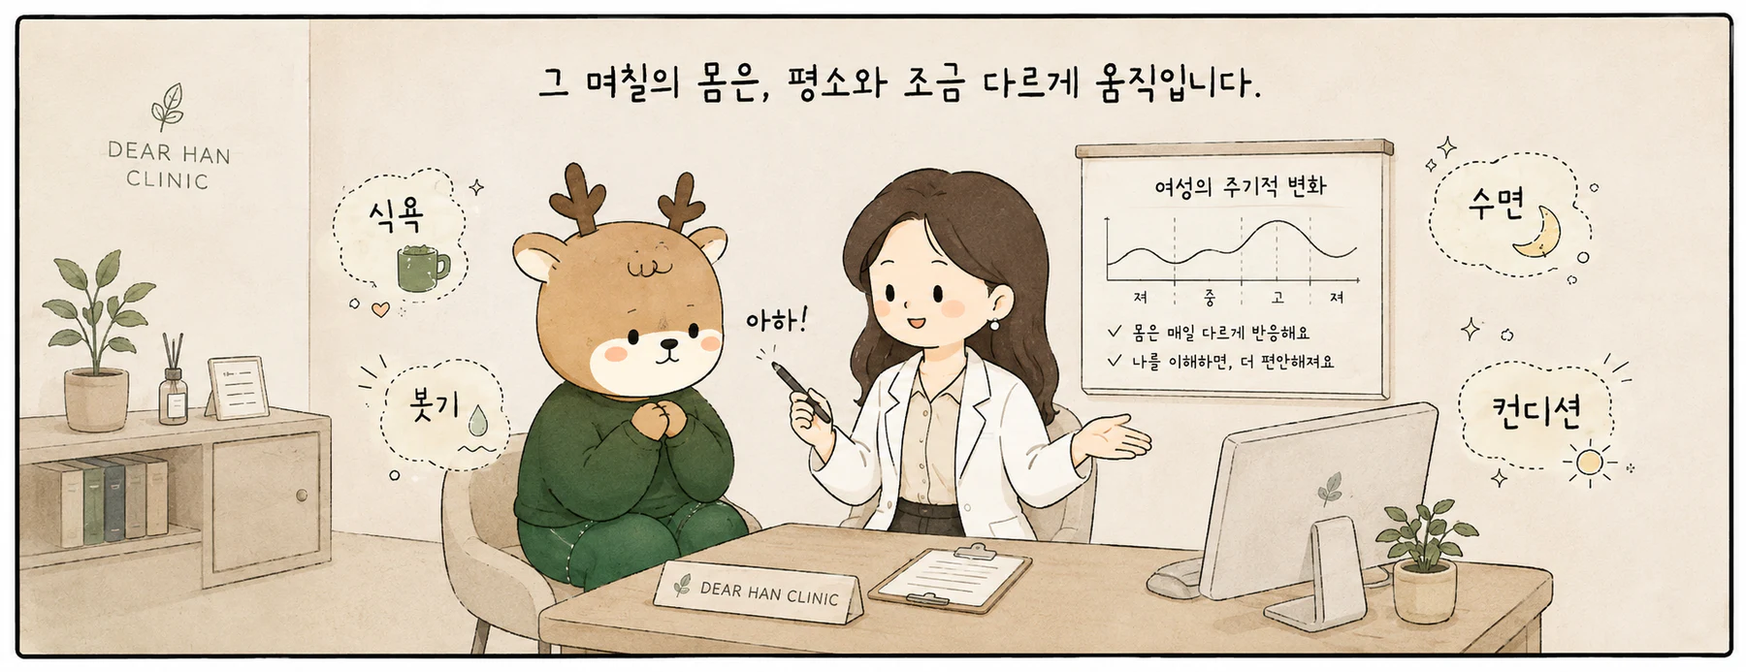
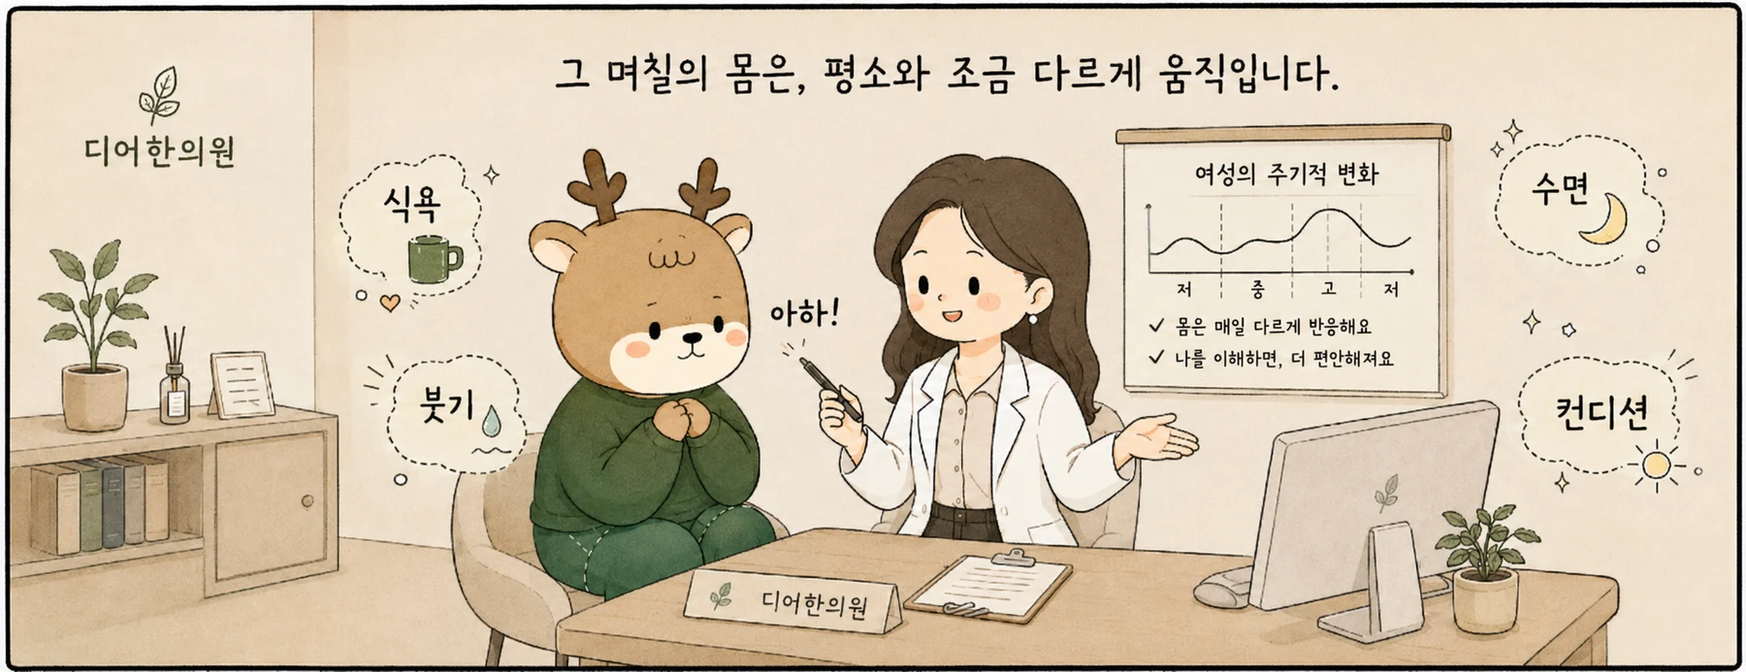
BE DEER 진료 용어와 사례 CTA 개편

diff --git a/be-deer-cases.html b/be-deer-cases.html
@@ -5,7 +5,7 @@
   <meta name="viewport" content="width=device-width, initial-scale=1.0">
   <meta name="theme-color" content="#173f37">
   <title>BE DEER 체성분 기록 | 디어한의원</title>
-  <meta name="description" content="디어한의원 BE DEER 다이어트 진료의 체성분 측정 기록 17건을 관리 시작과 경과 확인 시점으로 나누어 살펴봅니다.">
+  <meta name="description" content="디어한의원 BE DEER 다이어트 진료의 체성분 측정 기록 17건을 치료 시작과 경과 확인 시점으로 나누어 살펴봅니다.">
   <link rel="canonical" href="https://dearhani.com/be-deer-cases.html">
   <meta property="og:type" content="website">
   <meta property="og:title" content="BE DEER 체성분 기록 | 디어한의원">
@@ -15,7 +15,7 @@
   <link rel="icon" href="assets/images/dear-favicon.png" type="image/png">
   <link rel="stylesheet" as="style" crossorigin href="https://cdn.jsdelivr.net/gh/orioncactus/pretendard@v1.3.9/dist/web/static/pretendard.css">
   <link rel="stylesheet" href="css/style.css?v=20260728-3">
-  <link rel="stylesheet" href="css/be-deer.css?v=20260807-3">
+  <link rel="stylesheet" href="css/be-deer.css?v=20260811-5">
 </head>
 <body class="be-deer-page be-deer-cases-page">
   <nav class="nav" id="top">
@@ -37,131 +37,131 @@
         <p class="eyebrow">BE DEER BODY COMPOSITION ARCHIVE</p>
         <h1>체중 하나로는<br>보이지 않는 변화</h1>
       </div>
-      <p>관리의 시작점도, 변화의 속도도 사람마다 다릅니다. 한 번의 인상적인 결과보다 서로 다른 17개의 기록을 나란히 놓았습니다. 숫자를 과장하지 않고, 측정된 경과 그대로 살펴봅니다.</p>
+      <p>치료를 시작한 상태도, 변화의 속도도 사람마다 다릅니다. 한 번의 인상적인 결과보다 서로 다른 17개의 기록을 나란히 놓았습니다. 숫자를 과장하지 않고, 측정된 경과 그대로 살펴봅니다.</p>
     </header>
 
     <aside class="case-archive__notice" aria-label="사례 열람 안내">
       <strong>사례 열람 안내</strong>
-      <p>본 자료는 당사자의 동의를 받아 개인정보를 가린 뒤 게시했습니다. 체성분 측정값은 수분 상태, 식사, 활동량, 배변 상태와 측정 조건에 따라 달라질 수 있으며, 관리 결과는 개인의 상태·기간·생활습관·진료 순응도에 따라 다릅니다. 개별 사례를 모든 사람에게 동일하게 나타나는 결과로 해석할 수 없습니다.</p>
+      <p>본 자료는 당사자의 동의를 받아 개인정보를 가린 뒤 게시했습니다. 체성분 측정값은 수분 상태, 식사, 활동량, 배변 상태와 측정 조건에 따라 달라질 수 있으며, 진료 경과는 개인의 상태·치료 기간·생활습관·진료 순응도에 따라 다릅니다. 개별 사례를 모든 사람에게 동일하게 나타나는 결과로 해석할 수 없습니다.</p>
     </aside>
 
     <section class="case-archive__list" aria-label="BE DEER 체성분 기록 17건">
       <article class="case-record">
         <header><span>CASE 01</span><h2>30대 여성 사례</h2></header>
         <div class="case-record__pair">
-          <figure><figcaption>관리 시작</figcaption><a href="assets/images/be-deer/cases/case-01-before.webp" target="_blank" rel="noopener" aria-label="01번 사례 관리 시작 체성분 결과지 크게 보기"><img src="assets/images/be-deer/cases/case-01-before.webp" alt="개인정보를 가린 01번 사례 관리 시작 체성분 측정 결과지" loading="lazy" width="1200" height="1600"></a></figure>
+          <figure><figcaption>치료 시작</figcaption><a href="assets/images/be-deer/cases/case-01-before.webp" target="_blank" rel="noopener" aria-label="01번 사례 치료 시작 체성분 결과지 크게 보기"><img src="assets/images/be-deer/cases/case-01-before.webp" alt="개인정보를 가린 01번 사례 치료 시작 체성분 측정 결과지" loading="lazy" width="1200" height="1600"></a></figure>
           <figure><figcaption>경과 확인</figcaption><a href="assets/images/be-deer/cases/case-01-after.webp" target="_blank" rel="noopener" aria-label="01번 사례 경과 확인 체성분 결과지 크게 보기"><img src="assets/images/be-deer/cases/case-01-after.webp" alt="개인정보를 가린 01번 사례 경과 확인 체성분 측정 결과지" loading="lazy" width="1200" height="1600"></a></figure>
         </div>
       </article>
       <article class="case-record">
         <header><span>CASE 02</span><h2>20대 여성 사례</h2></header>
         <div class="case-record__pair">
-          <figure><figcaption>관리 시작</figcaption><a href="assets/images/be-deer/cases/case-02-before.webp" target="_blank" rel="noopener" aria-label="02번 사례 관리 시작 체성분 결과지 크게 보기"><img src="assets/images/be-deer/cases/case-02-before.webp" alt="개인정보를 가린 02번 사례 관리 시작 체성분 측정 결과지" loading="lazy" width="1200" height="1600"></a></figure>
+          <figure><figcaption>치료 시작</figcaption><a href="assets/images/be-deer/cases/case-02-before.webp" target="_blank" rel="noopener" aria-label="02번 사례 치료 시작 체성분 결과지 크게 보기"><img src="assets/images/be-deer/cases/case-02-before.webp" alt="개인정보를 가린 02번 사례 치료 시작 체성분 측정 결과지" loading="lazy" width="1200" height="1600"></a></figure>
           <figure><figcaption>경과 확인</figcaption><a href="assets/images/be-deer/cases/case-02-after.webp" target="_blank" rel="noopener" aria-label="02번 사례 경과 확인 체성분 결과지 크게 보기"><img src="assets/images/be-deer/cases/case-02-after.webp" alt="개인정보를 가린 02번 사례 경과 확인 체성분 측정 결과지" loading="lazy" width="1200" height="1600"></a></figure>
         </div>
       </article>
       <article class="case-record">
         <header><span>CASE 03</span><h2>30대 여성 사례</h2></header>
         <div class="case-record__pair">
-          <figure><figcaption>관리 시작</figcaption><a href="assets/images/be-deer/cases/case-03-before.webp" target="_blank" rel="noopener" aria-label="03번 사례 관리 시작 체성분 결과지 크게 보기"><img src="assets/images/be-deer/cases/case-03-before.webp" alt="개인정보를 가린 03번 사례 관리 시작 체성분 측정 결과지" loading="lazy" width="1200" height="1600"></a></figure>
+          <figure><figcaption>치료 시작</figcaption><a href="assets/images/be-deer/cases/case-03-before.webp" target="_blank" rel="noopener" aria-label="03번 사례 치료 시작 체성분 결과지 크게 보기"><img src="assets/images/be-deer/cases/case-03-before.webp" alt="개인정보를 가린 03번 사례 치료 시작 체성분 측정 결과지" loading="lazy" width="1200" height="1600"></a></figure>
           <figure><figcaption>경과 확인</figcaption><a href="assets/images/be-deer/cases/case-03-after.webp" target="_blank" rel="noopener" aria-label="03번 사례 경과 확인 체성분 결과지 크게 보기"><img src="assets/images/be-deer/cases/case-03-after.webp" alt="개인정보를 가린 03번 사례 경과 확인 체성분 측정 결과지" loading="lazy" width="1200" height="1600"></a></figure>
         </div>
       </article>
       <article class="case-record">
         <header><span>CASE 04</span><h2>20대 여성 사례</h2></header>
         <div class="case-record__pair">
-          <figure><figcaption>관리 시작</figcaption><a href="assets/images/be-deer/cases/case-04-before.webp" target="_blank" rel="noopener" aria-label="04번 사례 관리 시작 체성분 결과지 크게 보기"><img src="assets/images/be-deer/cases/case-04-before.webp" alt="개인정보를 가린 04번 사례 관리 시작 체성분 측정 결과지" loading="lazy" width="1200" height="1600"></a></figure>
+          <figure><figcaption>치료 시작</figcaption><a href="assets/images/be-deer/cases/case-04-before.webp" target="_blank" rel="noopener" aria-label="04번 사례 치료 시작 체성분 결과지 크게 보기"><img src="assets/images/be-deer/cases/case-04-before.webp" alt="개인정보를 가린 04번 사례 치료 시작 체성분 측정 결과지" loading="lazy" width="1200" height="1600"></a></figure>
           <figure><figcaption>경과 확인</figcaption><a href="assets/images/be-deer/cases/case-04-after.webp" target="_blank" rel="noopener" aria-label="04번 사례 경과 확인 체성분 결과지 크게 보기"><img src="assets/images/be-deer/cases/case-04-after.webp" alt="개인정보를 가린 04번 사례 경과 확인 체성분 측정 결과지" loading="lazy" width="1200" height="1600"></a></figure>
         </div>
       </article>
       <article class="case-record">
         <header><span>CASE 05</span><h2>30대 여성 사례</h2></header>
         <div class="case-record__pair">
-          <figure><figcaption>관리 시작</figcaption><a href="assets/images/be-deer/cases/case-05-before.webp" target="_blank" rel="noopener" aria-label="05번 사례 관리 시작 체성분 결과지 크게 보기"><img src="assets/images/be-deer/cases/case-05-before.webp" alt="개인정보를 가린 05번 사례 관리 시작 체성분 측정 결과지" loading="lazy" width="1200" height="1600"></a></figure>
+          <figure><figcaption>치료 시작</figcaption><a href="assets/images/be-deer/cases/case-05-before.webp" target="_blank" rel="noopener" aria-label="05번 사례 치료 시작 체성분 결과지 크게 보기"><img src="assets/images/be-deer/cases/case-05-before.webp" alt="개인정보를 가린 05번 사례 치료 시작 체성분 측정 결과지" loading="lazy" width="1200" height="1600"></a></figure>
           <figure><figcaption>경과 확인</figcaption><a href="assets/images/be-deer/cases/case-05-after.webp" target="_blank" rel="noopener" aria-label="05번 사례 경과 확인 체성분 결과지 크게 보기"><img src="assets/images/be-deer/cases/case-05-after.webp" alt="개인정보를 가린 05번 사례 경과 확인 체성분 측정 결과지" loading="lazy" width="1200" height="1600"></a></figure>
         </div>
       </article>
       <article class="case-record">
         <header><span>CASE 06</span><h2>20대 여성 사례</h2></header>
         <div class="case-record__pair">
-          <figure><figcaption>관리 시작</figcaption><a href="assets/images/be-deer/cases/case-06-before.webp" target="_blank" rel="noopener" aria-label="06번 사례 관리 시작 체성분 결과지 크게 보기"><img src="assets/images/be-deer/cases/case-06-before.webp" alt="개인정보를 가린 06번 사례 관리 시작 체성분 측정 결과지" loading="lazy" width="1200" height="1600"></a></figure>
+          <figure><figcaption>치료 시작</figcaption><a href="assets/images/be-deer/cases/case-06-before.webp" target="_blank" rel="noopener" aria-label="06번 사례 치료 시작 체성분 결과지 크게 보기"><img src="assets/images/be-deer/cases/case-06-before.webp" alt="개인정보를 가린 06번 사례 치료 시작 체성분 측정 결과지" loading="lazy" width="1200" height="1600"></a></figure>
           <figure><figcaption>경과 확인</figcaption><a href="assets/images/be-deer/cases/case-06-after.webp" target="_blank" rel="noopener" aria-label="06번 사례 경과 확인 체성분 결과지 크게 보기"><img src="assets/images/be-deer/cases/case-06-after.webp" alt="개인정보를 가린 06번 사례 경과 확인 체성분 측정 결과지" loading="lazy" width="1200" height="1600"></a></figure>
         </div>
       </article>
       <article class="case-record">
         <header><span>CASE 07</span><h2>40대 여성 사례</h2></header>
         <div class="case-record__pair">
-          <figure><figcaption>관리 시작</figcaption><a href="assets/images/be-deer/cases/case-07-before.webp" target="_blank" rel="noopener" aria-label="07번 사례 관리 시작 체성분 결과지 크게 보기"><img src="assets/images/be-deer/cases/case-07-before.webp" alt="개인정보를 가린 07번 사례 관리 시작 체성분 측정 결과지" loading="lazy" width="1200" height="1600"></a></figure>
+          <figure><figcaption>치료 시작</figcaption><a href="assets/images/be-deer/cases/case-07-before.webp" target="_blank" rel="noopener" aria-label="07번 사례 치료 시작 체성분 결과지 크게 보기"><img src="assets/images/be-deer/cases/case-07-before.webp" alt="개인정보를 가린 07번 사례 치료 시작 체성분 측정 결과지" loading="lazy" width="1200" height="1600"></a></figure>
           <figure><figcaption>경과 확인</figcaption><a href="assets/images/be-deer/cases/case-07-after.webp" target="_blank" rel="noopener" aria-label="07번 사례 경과 확인 체성분 결과지 크게 보기"><img src="assets/images/be-deer/cases/case-07-after.webp" alt="개인정보를 가린 07번 사례 경과 확인 체성분 측정 결과지" loading="lazy" width="1200" height="1600"></a></figure>
         </div>
       </article>
       <article class="case-record">
         <header><span>CASE 08</span><h2>30대 여성 사례</h2></header>
         <div class="case-record__pair">
-          <figure><figcaption>관리 시작</figcaption><a href="assets/images/be-deer/cases/case-08-before.webp" target="_blank" rel="noopener" aria-label="08번 사례 관리 시작 체성분 결과지 크게 보기"><img src="assets/images/be-deer/cases/case-08-before.webp" alt="개인정보를 가린 08번 사례 관리 시작 체성분 측정 결과지" loading="lazy" width="1200" height="1600"></a></figure>
+          <figure><figcaption>치료 시작</figcaption><a href="assets/images/be-deer/cases/case-08-before.webp" target="_blank" rel="noopener" aria-label="08번 사례 치료 시작 체성분 결과지 크게 보기"><img src="assets/images/be-deer/cases/case-08-before.webp" alt="개인정보를 가린 08번 사례 치료 시작 체성분 측정 결과지" loading="lazy" width="1200" height="1600"></a></figure>
           <figure><figcaption>경과 확인</figcaption><a href="assets/images/be-deer/cases/case-08-after.webp" target="_blank" rel="noopener" aria-label="08번 사례 경과 확인 체성분 결과지 크게 보기"><img src="assets/images/be-deer/cases/case-08-after.webp" alt="개인정보를 가린 08번 사례 경과 확인 체성분 측정 결과지" loading="lazy" width="1200" height="1600"></a></figure>
         </div>
       </article>
       <article class="case-record">
         <header><span>CASE 09</span><h2>30대 남성 사례</h2></header>
         <div class="case-record__pair">
-          <figure><figcaption>관리 시작</figcaption><a href="assets/images/be-deer/cases/case-09-before.webp" target="_blank" rel="noopener" aria-label="09번 사례 관리 시작 체성분 결과지 크게 보기"><img src="assets/images/be-deer/cases/case-09-before.webp" alt="개인정보를 가린 09번 사례 관리 시작 체성분 측정 결과지" loading="lazy" width="1200" height="1600"></a></figure>
+          <figure><figcaption>치료 시작</figcaption><a href="assets/images/be-deer/cases/case-09-before.webp" target="_blank" rel="noopener" aria-label="09번 사례 치료 시작 체성분 결과지 크게 보기"><img src="assets/images/be-deer/cases/case-09-before.webp" alt="개인정보를 가린 09번 사례 치료 시작 체성분 측정 결과지" loading="lazy" width="1200" height="1600"></a></figure>
           <figure><figcaption>경과 확인</figcaption><a href="assets/images/be-deer/cases/case-09-after.webp" target="_blank" rel="noopener" aria-label="09번 사례 경과 확인 체성분 결과지 크게 보기"><img src="assets/images/be-deer/cases/case-09-after.webp" alt="개인정보를 가린 09번 사례 경과 확인 체성분 측정 결과지" loading="lazy" width="1200" height="1600"></a></figure>
         </div>
       </article>
       <article class="case-record">
         <header><span>CASE 10</span><h2>50대 여성 사례</h2></header>
         <div class="case-record__pair">
-          <figure><figcaption>관리 시작</figcaption><a href="assets/images/be-deer/cases/case-10-before.webp" target="_blank" rel="noopener" aria-label="10번 사례 관리 시작 체성분 결과지 크게 보기"><img src="assets/images/be-deer/cases/case-10-before.webp" alt="개인정보를 가린 10번 사례 관리 시작 체성분 측정 결과지" loading="lazy" width="1200" height="1600"></a></figure>
+          <figure><figcaption>치료 시작</figcaption><a href="assets/images/be-deer/cases/case-10-before.webp" target="_blank" rel="noopener" aria-label="10번 사례 치료 시작 체성분 결과지 크게 보기"><img src="assets/images/be-deer/cases/case-10-before.webp" alt="개인정보를 가린 10번 사례 치료 시작 체성분 측정 결과지" loading="lazy" width="1200" height="1600"></a></figure>
           <figure><figcaption>경과 확인</figcaption><a href="assets/images/be-deer/cases/case-10-after.webp" target="_blank" rel="noopener" aria-label="10번 사례 경과 확인 체성분 결과지 크게 보기"><img src="assets/images/be-deer/cases/case-10-after.webp" alt="개인정보를 가린 10번 사례 경과 확인 체성분 측정 결과지" loading="lazy" width="1200" height="1600"></a></figure>
         </div>
       </article>
       <article class="case-record">
         <header><span>CASE 11</span><h2>40대 여성 사례</h2></header>
         <div class="case-record__pair">
-          <figure><figcaption>관리 시작</figcaption><a href="assets/images/be-deer/cases/case-11-before.webp" target="_blank" rel="noopener" aria-label="11번 사례 관리 시작 체성분 결과지 크게 보기"><img src="assets/images/be-deer/cases/case-11-before.webp" alt="개인정보를 가린 11번 사례 관리 시작 체성분 측정 결과지" loading="lazy" width="1200" height="1600"></a></figure>
+          <figure><figcaption>치료 시작</figcaption><a href="assets/images/be-deer/cases/case-11-before.webp" target="_blank" rel="noopener" aria-label="11번 사례 치료 시작 체성분 결과지 크게 보기"><img src="assets/images/be-deer/cases/case-11-before.webp" alt="개인정보를 가린 11번 사례 치료 시작 체성분 측정 결과지" loading="lazy" width="1200" height="1600"></a></figure>
           <figure><figcaption>경과 확인</figcaption><a href="assets/images/be-deer/cases/case-11-after.webp" target="_blank" rel="noopener" aria-label="11번 사례 경과 확인 체성분 결과지 크게 보기"><img src="assets/images/be-deer/cases/case-11-after.webp" alt="개인정보를 가린 11번 사례 경과 확인 체성분 측정 결과지" loading="lazy" width="1200" height="1600"></a></figure>
         </div>
       </article>
       <article class="case-record">
         <header><span>CASE 12</span><h2>40대 여성 사례</h2></header>
         <div class="case-record__pair">
-          <figure><figcaption>관리 시작</figcaption><a href="assets/images/be-deer/cases/case-12-before.webp" target="_blank" rel="noopener" aria-label="12번 사례 관리 시작 체성분 결과지 크게 보기"><img src="assets/images/be-deer/cases/case-12-before.webp" alt="개인정보를 가린 12번 사례 관리 시작 체성분 측정 결과지" loading="lazy" width="1200" height="1600"></a></figure>
+          <figure><figcaption>치료 시작</figcaption><a href="assets/images/be-deer/cases/case-12-before.webp" target="_blank" rel="noopener" aria-label="12번 사례 치료 시작 체성분 결과지 크게 보기"><img src="assets/images/be-deer/cases/case-12-before.webp" alt="개인정보를 가린 12번 사례 치료 시작 체성분 측정 결과지" loading="lazy" width="1200" height="1600"></a></figure>
           <figure><figcaption>경과 확인</figcaption><a href="assets/images/be-deer/cases/case-12-after.webp" target="_blank" rel="noopener" aria-label="12번 사례 경과 확인 체성분 결과지 크게 보기"><img src="assets/images/be-deer/cases/case-12-after.webp" alt="개인정보를 가린 12번 사례 경과 확인 체성분 측정 결과지" loading="lazy" width="1200" height="1600"></a></figure>
         </div>
       </article>
       <article class="case-record">
         <header><span>CASE 13</span><h2>20대 여성 사례</h2></header>
         <div class="case-record__pair">
-          <figure><figcaption>관리 시작</figcaption><a href="assets/images/be-deer/cases/case-13-before.webp" target="_blank" rel="noopener" aria-label="13번 사례 관리 시작 체성분 결과지 크게 보기"><img src="assets/images/be-deer/cases/case-13-before.webp" alt="개인정보를 가린 13번 사례 관리 시작 체성분 측정 결과지" loading="lazy" width="1200" height="1600"></a></figure>
+          <figure><figcaption>치료 시작</figcaption><a href="assets/images/be-deer/cases/case-13-before.webp" target="_blank" rel="noopener" aria-label="13번 사례 치료 시작 체성분 결과지 크게 보기"><img src="assets/images/be-deer/cases/case-13-before.webp" alt="개인정보를 가린 13번 사례 치료 시작 체성분 측정 결과지" loading="lazy" width="1200" height="1600"></a></figure>
           <figure><figcaption>경과 확인</figcaption><a href="assets/images/be-deer/cases/case-13-after.webp" target="_blank" rel="noopener" aria-label="13번 사례 경과 확인 체성분 결과지 크게 보기"><img src="assets/images/be-deer/cases/case-13-after.webp" alt="개인정보를 가린 13번 사례 경과 확인 체성분 측정 결과지" loading="lazy" width="1200" height="1600"></a></figure>
         </div>
       </article>
       <article class="case-record">
         <header><span>CASE 14</span><h2>20대 여성 사례</h2></header>
         <div class="case-record__pair">
-          <figure><figcaption>관리 시작</figcaption><a href="assets/images/be-deer/cases/case-14-before.webp" target="_blank" rel="noopener" aria-label="14번 사례 관리 시작 체성분 결과지 크게 보기"><img src="assets/images/be-deer/cases/case-14-before.webp" alt="개인정보를 가린 14번 사례 관리 시작 체성분 측정 결과지" loading="lazy" width="1200" height="1600"></a></figure>
+          <figure><figcaption>치료 시작</figcaption><a href="assets/images/be-deer/cases/case-14-before.webp" target="_blank" rel="noopener" aria-label="14번 사례 치료 시작 체성분 결과지 크게 보기"><img src="assets/images/be-deer/cases/case-14-before.webp" alt="개인정보를 가린 14번 사례 치료 시작 체성분 측정 결과지" loading="lazy" width="1200" height="1600"></a></figure>
           <figure><figcaption>경과 확인</figcaption><a href="assets/images/be-deer/cases/case-14-after.webp" target="_blank" rel="noopener" aria-label="14번 사례 경과 확인 체성분 결과지 크게 보기"><img src="assets/images/be-deer/cases/case-14-after.webp" alt="개인정보를 가린 14번 사례 경과 확인 체성분 측정 결과지" loading="lazy" width="1200" height="1600"></a></figure>
         </div>
       </article>
       <article class="case-record">
         <header><span>CASE 15</span><h2>30대 여성 사례</h2></header>
         <div class="case-record__pair">
-          <figure><figcaption>관리 시작</figcaption><a href="assets/images/be-deer/cases/case-15-before.webp" target="_blank" rel="noopener" aria-label="15번 사례 관리 시작 체성분 결과지 크게 보기"><img src="assets/images/be-deer/cases/case-15-before.webp" alt="개인정보를 가린 15번 사례 관리 시작 체성분 측정 결과지" loading="lazy" width="1200" height="1600"></a></figure>
+          <figure><figcaption>치료 시작</figcaption><a href="assets/images/be-deer/cases/case-15-before.webp" target="_blank" rel="noopener" aria-label="15번 사례 치료 시작 체성분 결과지 크게 보기"><img src="assets/images/be-deer/cases/case-15-before.webp" alt="개인정보를 가린 15번 사례 치료 시작 체성분 측정 결과지" loading="lazy" width="1200" height="1600"></a></figure>
           <figure><figcaption>경과 확인</figcaption><a href="assets/images/be-deer/cases/case-15-after.webp" target="_blank" rel="noopener" aria-label="15번 사례 경과 확인 체성분 결과지 크게 보기"><img src="assets/images/be-deer/cases/case-15-after.webp" alt="개인정보를 가린 15번 사례 경과 확인 체성분 측정 결과지" loading="lazy" width="1200" height="1600"></a></figure>
         </div>
       </article>
       <article class="case-record">
         <header><span>CASE 16</span><h2>40대 여성 사례</h2></header>
         <div class="case-record__pair">
-          <figure><figcaption>관리 시작</figcaption><a href="assets/images/be-deer/cases/case-16-before.webp" target="_blank" rel="noopener" aria-label="16번 사례 관리 시작 체성분 결과지 크게 보기"><img src="assets/images/be-deer/cases/case-16-before.webp" alt="개인정보를 가린 16번 사례 관리 시작 체성분 측정 결과지" loading="lazy" width="1200" height="1600"></a></figure>
+          <figure><figcaption>치료 시작</figcaption><a href="assets/images/be-deer/cases/case-16-before.webp" target="_blank" rel="noopener" aria-label="16번 사례 치료 시작 체성분 결과지 크게 보기"><img src="assets/images/be-deer/cases/case-16-before.webp" alt="개인정보를 가린 16번 사례 치료 시작 체성분 측정 결과지" loading="lazy" width="1200" height="1600"></a></figure>
           <figure><figcaption>경과 확인</figcaption><a href="assets/images/be-deer/cases/case-16-after.webp" target="_blank" rel="noopener" aria-label="16번 사례 경과 확인 체성분 결과지 크게 보기"><img src="assets/images/be-deer/cases/case-16-after.webp" alt="개인정보를 가린 16번 사례 경과 확인 체성분 측정 결과지" loading="lazy" width="1200" height="1600"></a></figure>
         </div>
       </article>
       <article class="case-record">
         <header><span>CASE 17</span><h2>40대 여성 사례</h2></header>
         <div class="case-record__pair">
-          <figure><figcaption>관리 시작</figcaption><a href="assets/images/be-deer/cases/case-17-before.webp" target="_blank" rel="noopener" aria-label="17번 사례 관리 시작 체성분 결과지 크게 보기"><img src="assets/images/be-deer/cases/case-17-before.webp" alt="개인정보를 가린 17번 사례 관리 시작 체성분 측정 결과지" loading="lazy" width="1200" height="1600"></a></figure>
+          <figure><figcaption>치료 시작</figcaption><a href="assets/images/be-deer/cases/case-17-before.webp" target="_blank" rel="noopener" aria-label="17번 사례 치료 시작 체성분 결과지 크게 보기"><img src="assets/images/be-deer/cases/case-17-before.webp" alt="개인정보를 가린 17번 사례 치료 시작 체성분 측정 결과지" loading="lazy" width="1200" height="1600"></a></figure>
           <figure><figcaption>경과 확인</figcaption><a href="assets/images/be-deer/cases/case-17-after.webp" target="_blank" rel="noopener" aria-label="17번 사례 경과 확인 체성분 결과지 크게 보기"><img src="assets/images/be-deer/cases/case-17-after.webp" alt="개인정보를 가린 17번 사례 경과 확인 체성분 측정 결과지" loading="lazy" width="1200" height="1600"></a></figure>
         </div>
       </article>

diff --git a/be-deer.html b/be-deer.html
@@ -27,7 +27,7 @@
   <link rel="icon" href="assets/images/dear-favicon.png" type="image/png">
   <link rel="stylesheet" as="style" crossorigin href="https://cdn.jsdelivr.net/gh/orioncactus/pretendard@v1.3.9/dist/web/static/pretendard.css">
   <link rel="stylesheet" href="css/style.css?v=20260728-3">
-  <link rel="stylesheet" href="css/be-deer.css?v=20260807-4">
+  <link rel="stylesheet" href="css/be-deer.css?v=20260811-5">
 </head>
 <body class="be-deer-page">
   <nav class="nav" id="top">
@@ -48,7 +48,7 @@
       <div class="hero__copy reveal">
         <p class="eyebrow">DEAR DIET PROGRAM</p>
         <h1>체중만 보지 않습니다.<br><span class="hero__highlight">지금의 몸과 생활</span>을 함께 봅니다.</h1>
-        <p class="hero__body">식욕과 수면, 소화와 부종, 배변과 생활 리듬까지.<br>현재 상태를 함께 살펴 체중관리의 방향을 정합니다.</p>
+        <p class="hero__body">식욕과 수면, 소화와 부종, 배변과 생활 리듬까지.<br>현재 상태를 함께 살펴 비만 진료의 방향을 정합니다.</p>
         <a class="text-link" href="#story">BE DEER 진료 알아보기 <span>↓</span></a>
       </div>
       <div class="hero__visual" aria-hidden="true">
@@ -77,7 +77,7 @@
     <section class="observe">
       <header class="section-heading reveal">
         <p class="eyebrow">WHAT WE OBSERVE</p>
-        <h2>체중관리의 방향을 정할 때<br>함께 살펴보는 여섯 가지</h2>
+        <h2>비만 진료의 방향을 정할 때<br>함께 살펴보는 여섯 가지</h2>
       </header>
       <div class="observe__grid">
         <article class="observe-card reveal" tabindex="0">
@@ -119,7 +119,7 @@
       </div>
       <aside class="observe__summary reveal" aria-label="BE DEER 진료 판단 원칙">
         <span>BE DEER ASSESSMENT</span>
-        <p>BE DEER는 문진과 진찰을 기본으로 합니다. 체중·체성분과 자율신경기능 등 필요한 측정자료를 함께 참고해 체중관리의 방향을 정합니다.</p>
+        <p>BE DEER는 문진과 진찰을 기본으로 합니다. 체중·체성분과 자율신경기능 등 필요한 측정자료를 함께 참고해 비만 진료의 방향을 정합니다.</p>
       </aside>
     </section>
 
@@ -161,7 +161,7 @@
           <li class="process__step" data-flow-step>
             <span class="process__number">01</span>
             <div class="process__stage"><span>INITIAL</span><h3>초기 문진</h3></div>
-            <div class="process__description"><p>현재의 고민과 체중 변화,<br>이전 체중관리 경험을 확인합니다.</p><p>식욕·수면·소화·배변·부종과<br>생활 패턴까지 함께 문진합니다.</p></div>
+            <div class="process__description"><p>현재의 고민과 체중 변화,<br>이전 비만 치료 경험을 확인합니다.</p><p>식욕·수면·소화·배변·부종과<br>생활 패턴까지 함께 문진합니다.</p></div>
           </li>
           <li class="process__step" data-flow-step>
             <span class="process__number">02</span>
@@ -171,7 +171,7 @@
           <li class="process__step" data-flow-step>
             <span class="process__number">03</span>
             <div class="process__stage"><span>CARE PLAN</span><h3>진료 계획</h3></div>
-            <div class="process__description"><p>확인한 내용을 바탕으로 현재 상태에 맞는 진료 방향을 정합니다.</p><p>한약을 포함한 치료와 생활 관리의 범위는 진찰 후 개별적으로 결정합니다.</p></div>
+            <div class="process__description"><p>확인한 내용을 바탕으로 현재 상태에 맞는 진료 방향을 정합니다.</p><p>한약을 포함한 치료 계획은 진찰 후 개별적으로 결정합니다.</p></div>
           </li>
           <li class="process__step" data-flow-step>
             <span class="process__number">04</span>
@@ -194,10 +194,10 @@
           <article class="result-panel">
             <div class="result-panel__heading">
               <span>START</span>
-              <h3>관리를 시작할 때</h3>
+              <h3>치료 시작 시점</h3>
             </div>
-            <a class="result-panel__sheet" href="assets/images/be-deer/body-composition-start-redacted.jpg" target="_blank" rel="noopener" aria-label="관리 시작 시 체성분 결과지 크게 보기">
-              <img src="assets/images/be-deer/body-composition-start-redacted.jpg" alt="개인정보를 가린 관리 시작 시 체성분 검사 결과지" loading="lazy">
+            <a class="result-panel__sheet" href="assets/images/be-deer/body-composition-start-redacted.jpg" target="_blank" rel="noopener" aria-label="치료 시작 시점의 체성분 결과지 크게 보기">
+              <img src="assets/images/be-deer/body-composition-start-redacted.jpg" alt="개인정보를 가린 치료 시작 시점의 체성분 검사 결과지" loading="lazy">
               <span>결과지 크게 보기</span>
             </a>
             <dl class="result-panel__metrics">
@@ -230,19 +230,15 @@
           </article>
         </div>
 
-        <p class="result-story__summary"><strong>본 사례는<br>체중·체지방 및 복부지방 지표가 높은 상태에서 관리를 시작해,<br>체지방과 내장지방 지표가 함께 감소한 사례입니다.</strong></p>
+        <p class="result-story__summary"><strong>본 사례는<br>체중·체지방 및 복부지방 지표가 높은 상태에서 치료를 시작해,<br>체지방과 내장지방 지표가 함께 감소한 사례입니다.</strong></p>
       </section>
 
       <aside class="case-archive-bridge reveal" aria-labelledby="case-archive-bridge-title">
         <div class="case-archive-bridge__copy">
           <p class="eyebrow">BODY COMPOSITION ARCHIVE</p>
-          <h2 id="case-archive-bridge-title">다이어트 진료 사례<br>더 보기</h2>
+          <h2 id="case-archive-bridge-title">서로 다른 치료 시작과<br>경과를 기록했습니다</h2>
           <p>한 사람의 큰 변화만이 아니라,<br>서로 다른 시작과 경과를 체성분 기록으로 모았습니다.</p>
-          <a href="be-deer-cases.html">17개의 체성분 기록 살펴보기 <span aria-hidden="true">→</span></a>
-        </div>
-        <div class="case-archive-bridge__index" aria-hidden="true">
-          <strong>17</strong>
-          <span>CASES</span>
+          <a href="be-deer-cases.html">다이어트 진료 사례 더 보기 <span aria-hidden="true">→</span></a>
         </div>
       </aside>
 
@@ -302,7 +298,7 @@
 
         <section class="self-check reveal" aria-labelledby="self-check-title">
           <header class="self-check__intro">
-            <p class="eyebrow">후기로 확인되는 BE DEER 체중관리</p>
+            <p class="eyebrow">후기로 확인되는 BE DEER 다이어트 진료</p>
             <h3 id="self-check-title">이런 경우라면,<br>BE DEER 상담을 고려해보세요.</h3>
             <p>실제 후기에서 확인된 변화는 특별한 몇 사람의 이야기가 아니라,<br>식사·수면·생활 리듬이 흔들리는 일상 속에서 시작되는 경우가 많습니다.</p>
           </header>
@@ -340,12 +336,12 @@
               <article class="self-check-card">
                 <div class="self-check-card__top"><span>05</span></div>
                 <h4>운동은 바쁘고, 식단은 지쳐서 못 하겠어요.</h4>
-                <p>총에너지 소비에는 운동뿐 아니라 <strong class="self-check-card__key">이동과 업무, 가사 같은 비운동성 활동도 관여합니다.</strong> 수면과 회복 상태, 일상 활동량, 식사 환경을 확인해 현재 생활에서 실제로 확보할 수 있는 관리 강도와 우선순위를 정합니다.</p>
+                <p>총에너지 소비에는 운동뿐 아니라 <strong class="self-check-card__key">이동과 업무, 가사 같은 비운동성 활동도 관여합니다.</strong> 수면과 회복 상태, 일상 활동량, 식사 환경을 확인해 현재 상태에 필요한 진료 범위와 우선순위를 정합니다.</p>
               </article>
               <article class="self-check-card">
                 <div class="self-check-card__top"><span>06</span></div>
                 <h4>이번에는 체중뿐 아니라, 앞으로의 건강까지 생각하고 싶어요.</h4>
-                <p><strong class="self-check-card__key">체중이나 BMI만으로 대사질환 위험을 충분히 평가하기는 어렵습니다.</strong> 복부지방과 체성분, 혈압, 혈당·지질 관련 검사 결과, 가족력과 복용 약물을 종합해 감량 목표와 건강관리의 우선순위를 함께 설정합니다.</p>
+                <p><strong class="self-check-card__key">체중이나 BMI만으로 대사질환 위험을 충분히 평가하기는 어렵습니다.</strong> 복부지방과 체성분, 혈압, 혈당·지질 관련 검사 결과, 가족력과 복용 약물을 종합해 감량 목표와 대사 위험 평가의 우선순위를 함께 설정합니다.</p>
               </article>
             </div>
             <figure class="self-check__photo">
@@ -371,7 +367,7 @@
         <a class="final-cta__primary" href="https://m.booking.naver.com/booking/13/bizes/729883" target="_blank" rel="noopener">지금 진료 예약하기 <span aria-hidden="true">→</span></a>
         <a class="final-cta__secondary" href="tel:02-3486-1777">전화로 상담하기</a>
       </div>
-      <p class="final-cta__note reveal">BE DEER 체중관리 · 김민지 대표원장 진료</p>
+      <p class="final-cta__note reveal">BE DEER 다이어트 진료 · 김민지 대표원장 진료</p>
     </section>
   </main>
 

diff --git a/columns/gyodae-diet-premenstrual-appetite.html b/columns/gyodae-diet-premenstrual-appetite.html
@@ -39,11 +39,6 @@
     .toon-copy--note{padding:.18em .5em;background:#f8f4ec;box-shadow:0 0 12px 10px #f8f4ec;font-size:clamp(8px,1.45vw,21px)}
     .toon-copy--bubble{padding:.25em .65em;background:#f8f4ec;box-shadow:0 0 14px 12px #f8f4ec;font-size:clamp(8px,1.55vw,22px)}
     .toon-05 .toon-note-weight{top:25%;left:63%}.toon-05 .toon-note-huh{top:55%;left:44%}.toon-05 .toon-note-really{top:73%;left:67%}
-    .toon-06 .toon-appetite{top:26%;left:19%}.toon-06 .toon-bloat{top:55%;left:21%}.toon-06 .toon-aha{top:41%;left:42%}
-    .toon-06 .toon-chart-title{top:22%;left:58%;width:19%;font-size:clamp(7px,1.15vw,17px);text-align:center}
-    .toon-06 .toon-chart-one,.toon-06 .toon-chart-two{left:58%;width:24%;font-size:clamp(6px,.9vw,13px)}.toon-06 .toon-chart-one{top:44%}.toon-06 .toon-chart-two{top:50%}
-    .toon-06 .toon-axis{top:38%;padding:.05em .18em;font-size:clamp(5px,.72vw,10px)}.toon-06 .toon-axis-1{left:59%}.toon-06 .toon-axis-2{left:65%}.toon-06 .toon-axis-3{left:71%}.toon-06 .toon-axis-4{left:77%}
-    .toon-06 .toon-sleep{top:25%;left:84%}.toon-06 .toon-condition{top:55%;left:83%}
     .cycle-toon>p{margin:1rem auto 0;max-width:820px;color:#6b6d68;font-size:.76rem;line-height:1.7;text-align:center}
     .cycle-figure{width:min(960px,calc(100vw - 40px));margin:3rem 50%;padding:clamp(1.5rem,4vw,3rem);transform:translateX(-50%);border-top:2px solid #273c36;border-bottom:1px solid #d9dfdb;background:#fff}
     .cycle-figure figcaption{display:flex;justify-content:space-between;gap:1.5rem;margin-bottom:2rem}
@@ -114,7 +109,7 @@
           <figure class="toon-03"><img src="../assets/images/columns/gyodae-diet-premenstrual-appetite/toon-03.webp" alt="냉장고 안의 간식이 자꾸 생각나는 사슴" width="1800" height="693" loading="lazy"><span class="toon-copy toon-copy--caption">자꾸 뭐가 생각난다.</span></figure>
           <figure class="toon-04"><img src="../assets/images/columns/gyodae-diet-premenstrual-appetite/toon-04.webp" alt="여러 간식을 꺼내 먹는 사슴" width="1800" height="693" loading="lazy"><span class="toon-copy toon-copy--caption">한 입만 하려던 게…</span></figure>
           <figure class="toon-05"><img src="../assets/images/columns/gyodae-diet-premenstrual-appetite/toon-05.webp" alt="다음 날 체중계의 0.8kg 증가를 보고 놀란 사슴" width="1800" height="691" loading="lazy"><span class="toon-copy toon-copy--caption">어제 하루인데?</span><span class="toon-copy toon-copy--note toon-note-weight">+0.8kg?</span><span class="toon-copy toon-copy--note toon-note-huh">엥?</span><span class="toon-copy toon-copy--note toon-note-really">진짜…?</span></figure>
-          <figure class="toon-06"><img src="../assets/images/columns/gyodae-diet-premenstrual-appetite/toon-06.webp" alt="월경주기에 따른 몸의 변화를 진료실에서 설명하는 연출 장면" width="1800" height="693" loading="lazy"><span class="toon-copy toon-copy--caption">그 며칠의 몸은, 평소와 조금 다르게 움직입니다.</span><span class="toon-copy toon-copy--bubble toon-appetite">식욕</span><span class="toon-copy toon-copy--bubble toon-bloat">붓기</span><span class="toon-copy toon-copy--note toon-aha">아하!</span><span class="toon-copy toon-copy--note toon-chart-title">여성의 주기적 변화</span><span class="toon-copy toon-copy--note toon-axis toon-axis-1">저</span><span class="toon-copy toon-copy--note toon-axis toon-axis-2">중</span><span class="toon-copy toon-copy--note toon-axis toon-axis-3">고</span><span class="toon-copy toon-copy--note toon-axis toon-axis-4">저</span><span class="toon-copy toon-copy--note toon-chart-one">✓ 몸은 매일 다르게 반응해요</span><span class="toon-copy toon-copy--note toon-chart-two">✓ 나를 이해하면, 더 편안해져요</span><span class="toon-copy toon-copy--bubble toon-sleep">수면</span><span class="toon-copy toon-copy--bubble toon-condition">컨디션</span></figure>
+          <figure class="toon-06"><img src="../assets/images/columns/gyodae-diet-premenstrual-appetite/toon-06.webp?v=20260811-2" alt="월경주기에 따른 몸의 변화를 진료실에서 설명하는 연출 장면" width="1800" height="693" loading="lazy"></figure>
         </div>
         <p>위 웹툰은 이해를 돕기 위해 구성한 상황입니다. 특정 환자의 진료기록이나 치료 결과를 재현한 자료가 아닙니다.</p>
       </div>

diff --git a/css/be-deer.css b/css/be-deer.css
@@ -570,7 +570,7 @@ img { display: block; width: 100%; }
   position: relative;
   isolation: isolate;
   display: grid;
-  grid-template-columns: minmax(0, 1fr) auto;
+  grid-template-columns: minmax(0, 1fr);
   align-items: end;
   gap: 56px;
   margin: clamp(-78px, -5vw, -48px) 0 clamp(128px, 12vw, 184px);
@@ -604,24 +604,25 @@ img { display: block; width: 100%; }
   line-height: 1.08;
   letter-spacing: -.06em;
 }
+.case-archive-bridge__copy { max-width: 820px; }
 .case-archive-bridge__copy > p:not(.eyebrow) { margin: 0; color: var(--secondary); font-size: 15px; line-height: 1.8; }
 .case-archive-bridge__copy a {
   display: inline-flex;
   align-items: center;
-  gap: 14px;
-  margin-top: 34px;
-  padding-bottom: 8px;
-  border-bottom: 1px solid currentColor;
-  color: var(--green);
-  font-size: 14px;
+  justify-content: space-between;
+  gap: 24px;
+  min-width: min(100%, 520px);
+  margin-top: 36px;
+  padding: 20px 24px;
+  border: 1px solid var(--green);
+  background: var(--green);
+  color: #fff;
+  font-size: clamp(19px, 2vw, 27px);
   font-weight: 700;
 }
 .case-archive-bridge__copy a span { font-size: 20px; font-weight: 300; transition: transform .25s ease; }
 .case-archive-bridge__copy a:hover span,
 .case-archive-bridge__copy a:focus-visible span { transform: translateX(5px); }
-.case-archive-bridge__index { display: flex; align-items: flex-end; gap: 14px; color: var(--green); }
-.case-archive-bridge__index strong { font-family: var(--font-en); font-size: clamp(100px, 12vw, 176px); font-weight: 260; line-height: .72; letter-spacing: -.08em; }
-.case-archive-bridge__index span { margin-bottom: 2px; font-family: var(--font-en); font-size: 11px; font-weight: 700; letter-spacing: .22em; }
 .voices__intro { display: grid; grid-template-columns: 1fr 2fr; align-items: end; margin-bottom: 9vw; }
 .voices__intro .eyebrow { align-self: start; }
 .voices__intro h2 {
@@ -983,8 +984,6 @@ img { display: block; width: 100%; }
 
 @media (max-width: 900px) {
   .case-archive-bridge { grid-template-columns: 1fr; align-items: start; margin-top: -44px; margin-bottom: 104px; padding: 48px 26px; }
-  .case-archive-bridge__index { justify-self: end; margin-top: 24px; }
-  .case-archive-bridge__index strong { font-size: 118px; }
   .case-archive { padding: 126px 24px 96px; }
   .case-archive__hero { grid-template-columns: 1fr; align-items: start; gap: 38px; }
   .case-archive__hero h1 { font-size: clamp(48px, 10vw, 72px); }
@@ -1119,7 +1118,6 @@ img { display: block; width: 100%; }
   .case-archive-bridge::after { background: linear-gradient(180deg, rgba(255,255,255,.93), rgba(255,255,255,.79)); }
   .case-archive-bridge__copy h2 { font-size: 38px; }
   .case-archive-bridge__copy > p:not(.eyebrow) br { display: none; }
-  .case-archive-bridge__index strong { font-size: 96px; }
   .case-archive { padding: 110px 20px 80px; }
   .case-archive__hero { margin-bottom: 54px; }
   .case-archive__hero h1 { font-size: clamp(43px, 13vw, 58px); }

diff --git a/be-deer-case.html b/be-deer-case.html
@@ -10,7 +10,7 @@
   <link rel="icon" href="assets/images/dear-favicon.png" type="image/png">
   <link rel="stylesheet" as="style" crossorigin href="https://cdn.jsdelivr.net/gh/orioncactus/pretendard@v1.3.9/dist/web/static/pretendard.css">
   <link rel="stylesheet" href="css/style.css?v=20260728-3">
-  <link rel="stylesheet" href="css/be-deer.css?v=20260807-3">
+  <link rel="stylesheet" href="css/be-deer.css?v=20260811-5">
 </head>
 <body class="be-deer-page be-deer-case-detail-page">
   <nav class="nav" id="top">

diff --git a/HANDOFF.md b/HANDOFF.md
@@ -2,6 +2,12 @@
 
 최종 갱신: 2026-08-11
 
+## 2026-08-11 BE DEER 의료 용어·사례 CTA 및 디툰 6컷 교체
+
+- BE DEER 본편과 체성분 사례 목록에서 헬스장·웰니스 서비스처럼 들리는 `관리` 표현을 제거했다. 문맥에 따라 `비만 진료`, `다이어트 진료`, `치료 시작`, `진료 경과`, `진료 범위와 우선순위`, `대사 위험 평가의 우선순위`로 바꿨으며 `생활 조정`도 사용하지 않는다.
+- 본편의 사례 아카이브 연결부에서 크게 보이던 `17 CASES` 숫자를 삭제하고, `다이어트 진료 사례 더 보기`를 큰 초록색 CTA로 강조했다.
+- 생리 전 식욕 칼럼의 6번 디툰은 사용자가 다시 제공한 한글 보정본으로 교체했다. 새 이미지의 문구가 정상이라 6번 컷에만 있던 HTML 한글 덮어쓰기 레이어는 제거했다.
+
 ## 2026-08-11 디툰 한글 렌더링 보정
 
 - 생리 전 식욕 칼럼의 디툰 6장에 생성형 이미지가 직접 그린 한글 획이 어색하게 남아 있었다. 장면과 캐릭터는 유지하고, 한글 영역을 이미지 톤과 같은 배경으로 정리한 뒤 실제 Pretendard 텍스트 레이어를 동일 위치에 배치했다.
